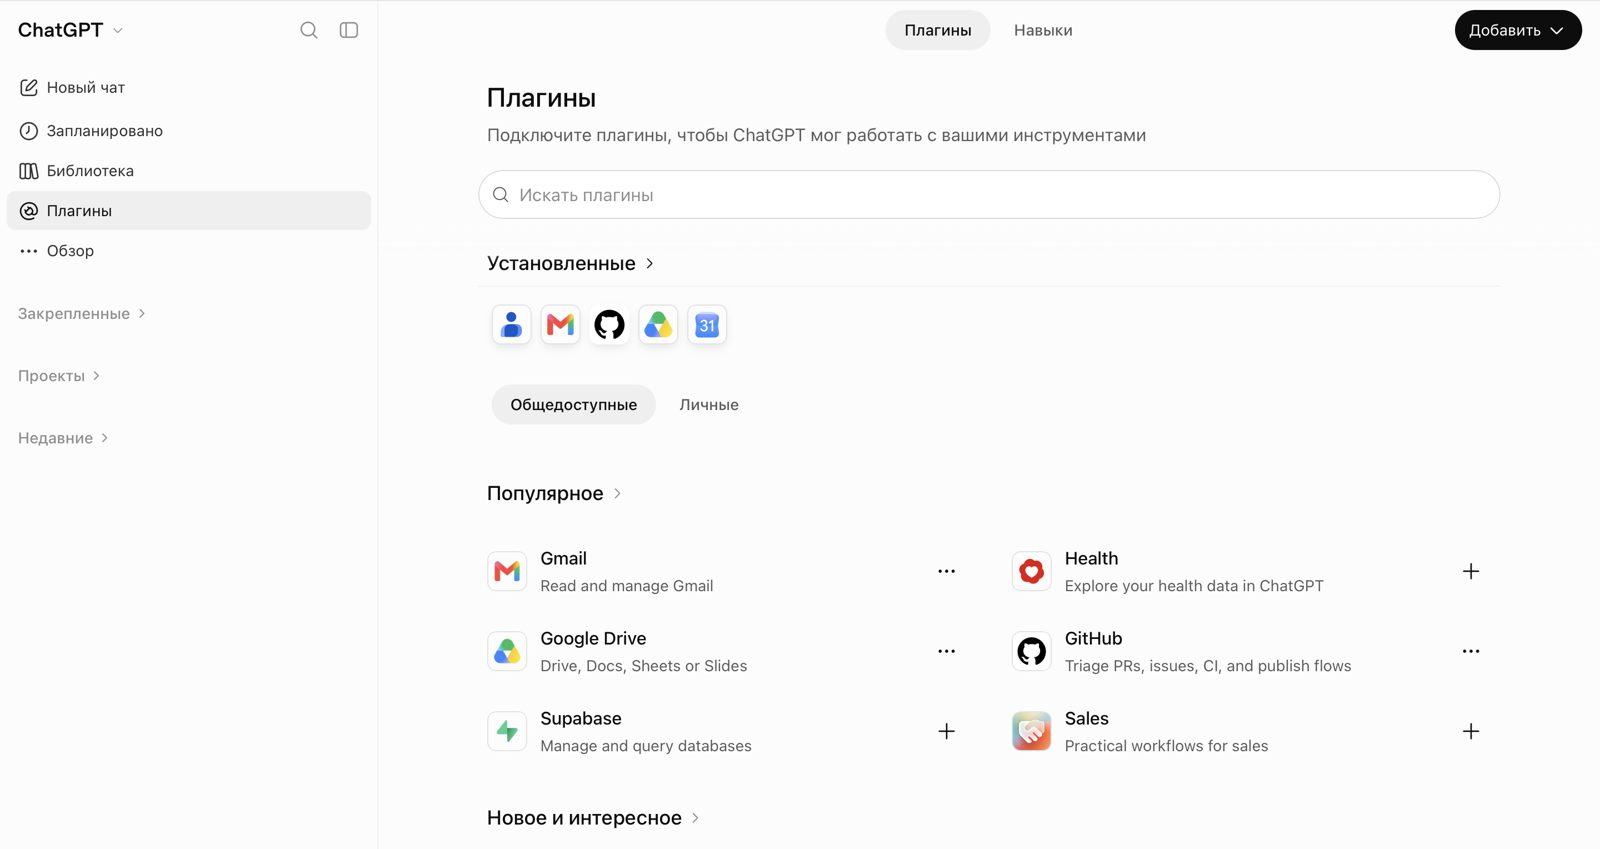
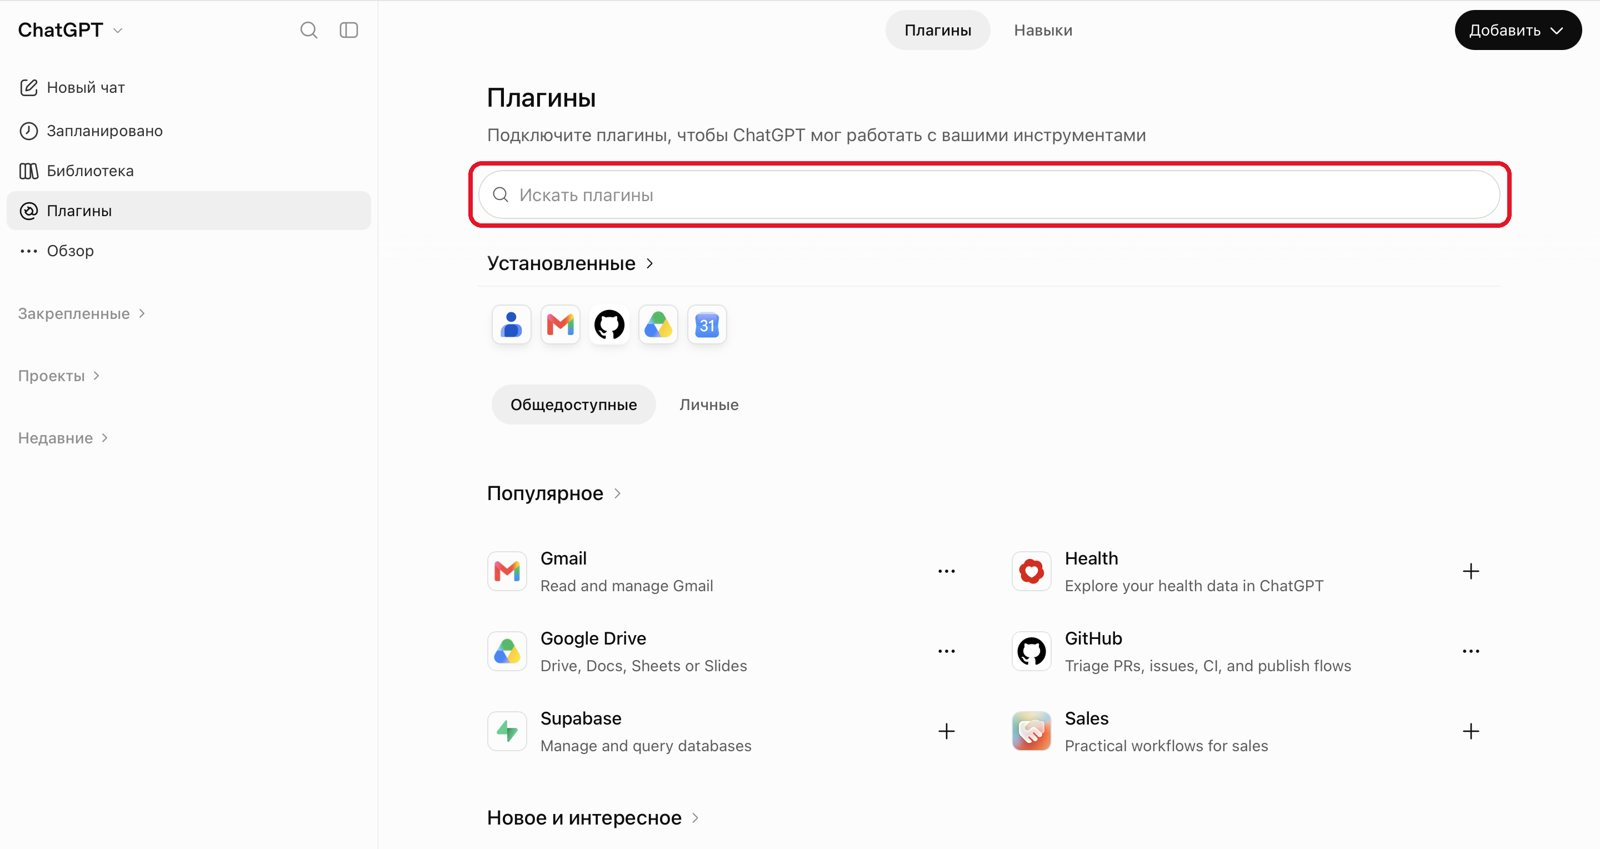
Плагины: на скриншотах красным отмечено, куда нажимать

Changed region(s): [[0.2812, 0.245, 0.9375, 0.2756], [0.2812, 0.1837, 0.9375, 0.2144]]

diff --git a/modul2/bonus-plaginy/index.html b/modul2/bonus-plaginy/index.html
@@ -340,50 +340,50 @@ footer{background:var(--dark2);color:#8A7C90;padding:30px 0 40px;font-size:var(-
     <p class="label">По шагам</p>
     <h2>Как подключить плагин в&nbsp;ChatGPT</h2>
     <p>Скриншоты сделаны 3 октября 2026 года, интерфейс на русском. Порядок одинаковый для любого плагина – здесь показан Zoom, Google Диск и Календарь подключаются так же.</p>
-    <p class="snote">Нажмите на картинку, чтобы рассмотреть её крупнее.</p>
+    <p class="snote"><b style="color:#E6142A">Куда нажимать – обведено красным.</b> Нажмите на картинку, чтобы рассмотреть её крупнее.</p>
 
     <div class="shots">
       <div class="sstep"><span class="snum">1</span><div>
         <h3>Откройте раздел «Плагины»</h3>
         <p>Он есть в меню слева. Ещё одна кнопка «Плагины» – под строкой ввода, рядом с «Выбрать проект» и «Файлы»: через неё плагин можно позвать прямо в чат.</p>
-        <a class="shot" href="assets/shag-1.jpg" target="_blank" rel="noopener"><img src="assets/shag-1.jpg" loading="lazy" width="1600" height="846" alt="Главный экран ChatGPT в режиме «Работа»: в меню слева пункт «Плагины», под строкой ввода кнопки «Выбрать проект», «Файлы», «Плагины»"></a>
+        <a class="shot" href="assets/shag-1.jpg?v=2" target="_blank" rel="noopener"><img src="assets/shag-1.jpg?v=2" loading="lazy" width="1600" height="846" alt="Главный экран ChatGPT в режиме «Работа»: в меню слева пункт «Плагины», под строкой ввода кнопки «Выбрать проект», «Файлы», «Плагины»"></a>
       </div></div>
 
       <div class="sstep"><span class="snum">2</span><div>
         <h3>Посмотрите, что уже подключено</h3>
         <p>Вверху – поиск «Искать плагины», ниже блок «Установленные» и каталог. Google Drive подписан «Drive, Docs, Sheets or Slides»: Документы, Таблицы и Презентации входят в него. Вкладка «Навыки» рядом – там живут навыки из уроков 2 и 3.</p>
-        <a class="shot" href="assets/shag-2.jpg" target="_blank" rel="noopener"><img src="assets/shag-2.jpg" loading="lazy" width="1600" height="849" alt="Страница «Плагины»: поиск, блок «Установленные», раздел «Популярное» с Gmail, Google Drive, GitHub и другими"></a>
+        <a class="shot" href="assets/shag-2.jpg?v=2" target="_blank" rel="noopener"><img src="assets/shag-2.jpg?v=2" loading="lazy" width="1600" height="849" alt="Страница «Плагины»: поиск, блок «Установленные», раздел «Популярное» с Gmail, Google Drive, GitHub и другими"></a>
       </div></div>
 
       <div class="sstep"><span class="snum">3</span><div>
         <h3>Кнопка «Добавить» – для тех, кто собирает своё</h3>
         <p>В ней «Создать плагин», «Загрузить архив плагина» и «Создать пользовательский сервер MCP». Это для продвинутых: чтобы подключить готовый плагин, она не нужна.</p>
-        <a class="shot" href="assets/shag-3.jpg" target="_blank" rel="noopener"><img src="assets/shag-3.jpg" loading="lazy" width="1600" height="802" alt="Открытое меню кнопки «Добавить»: «Создать плагин», «Загрузить архив плагина», «Создать пользовательский сервер MCP»"></a>
+        <a class="shot" href="assets/shag-3.jpg?v=2" target="_blank" rel="noopener"><img src="assets/shag-3.jpg?v=2" loading="lazy" width="1600" height="802" alt="Открытое меню кнопки «Добавить»: «Создать плагин», «Загрузить архив плагина», «Создать пользовательский сервер MCP»"></a>
       </div></div>
 
       <div class="sstep"><span class="snum">4</span><div>
         <h3>Найдите плагин и нажмите плюсик</h3>
         <p>Через поиск или по разделам каталога. Рядом с каждым плагином – плюсик, им плагин и добавляется. Нажмите на название, если хотите сначала прочитать, что он умеет.</p>
-        <a class="shot" href="assets/shag-4.jpg" target="_blank" rel="noopener"><img src="assets/shag-4.jpg" loading="lazy" width="1600" height="836" alt="Каталог плагинов по разделам: Teams, Zoom, раздел «Творчество» с Canva и Figma; рядом с каждым плагином плюсик"></a>
+        <a class="shot" href="assets/shag-4.jpg?v=2" target="_blank" rel="noopener"><img src="assets/shag-4.jpg?v=2" loading="lazy" width="1600" height="836" alt="Каталог плагинов по разделам: Teams, Zoom, раздел «Творчество» с Canva и Figma; рядом с каждым плагином плюсик"></a>
       </div></div>
 
       <div class="sstep"><span class="snum">5</span><div>
         <h3>Прочитайте окно подключения</h3>
         <p>ChatGPT покажет три блока: «Вы все контролируете», «Приложения могут представлять повышенный риск» и «Данные, переданные этому приложению». Дальше – кнопка «Перейти к» и название сервиса.</p>
-        <a class="shot" href="assets/shag-5.jpg" target="_blank" rel="noopener"><img src="assets/shag-5.jpg" loading="lazy" width="1600" height="837" alt="Окно «Подключить Zoom» с тремя блоками о данных и рисках и кнопкой «Перейти к Zoom»"></a>
+        <a class="shot" href="assets/shag-5.jpg?v=2" target="_blank" rel="noopener"><img src="assets/shag-5.jpg?v=2" loading="lazy" width="1600" height="837" alt="Окно «Подключить Zoom» с тремя блоками о данных и рисках и кнопкой «Перейти к Zoom»"></a>
         <p class="note"><b>Прочитайте, к чему даёте доступ.</b> Сервис получит доступ к основной информации о вас и краткой сводке того, над чем вы работаете в ChatGPT. Если сервис вам незнаком или не нужен каждую неделю – лучше не подключать.</p>
       </div></div>
 
       <div class="sstep"><span class="snum">6</span><div>
         <h3>Разрешите доступ на стороне сервиса</h3>
         <p>Откроется страница самого сервиса со списком: что ChatGPT сможет видеть и делать. У Zoom это создание и изменение встреч, просмотр облачных записей и поиск. Allow – разрешить, Decline – отказаться. Google покажет свой похожий экран.</p>
-        <a class="shot" href="assets/shag-6.jpg" target="_blank" rel="noopener"><img src="assets/shag-6.jpg" loading="lazy" width="1600" height="897" alt="Страница Zoom со списком разрешений для ChatGPT и кнопками Allow и Decline"></a>
+        <a class="shot" href="assets/shag-6.jpg?v=2" target="_blank" rel="noopener"><img src="assets/shag-6.jpg?v=2" loading="lazy" width="1600" height="897" alt="Страница Zoom со списком разрешений для ChatGPT и кнопками Allow и Decline"></a>
       </div></div>
 
       <div class="sstep"><span class="snum">7</span><div>
         <h3>Позовите плагин в чат</h3>
         <p>Наберите @ и выберите плагин из списка – или нажмите «Плагины» под строкой ввода. Можно и просто поставить задачу: установленный плагин ChatGPT подключит сам, если он подходит.</p>
-        <a class="shot" href="assets/shag-7.jpg" target="_blank" rel="noopener"><img src="assets/shag-7.jpg" loading="lazy" width="1400" height="1008" alt="Чат: вопрос «Zoom, что ты умеешь делать?» и ответ ChatGPT таблицей «Что могу / Пример запроса»"></a>
+        <a class="shot" href="assets/shag-7.jpg?v=2" target="_blank" rel="noopener"><img src="assets/shag-7.jpg?v=2" loading="lazy" width="1600" height="1152" alt="Чат: вопрос «Zoom, что ты умеешь делать?» и ответ ChatGPT таблицей «Что могу / Пример запроса»"></a>
       </div></div>
     </div>
 
